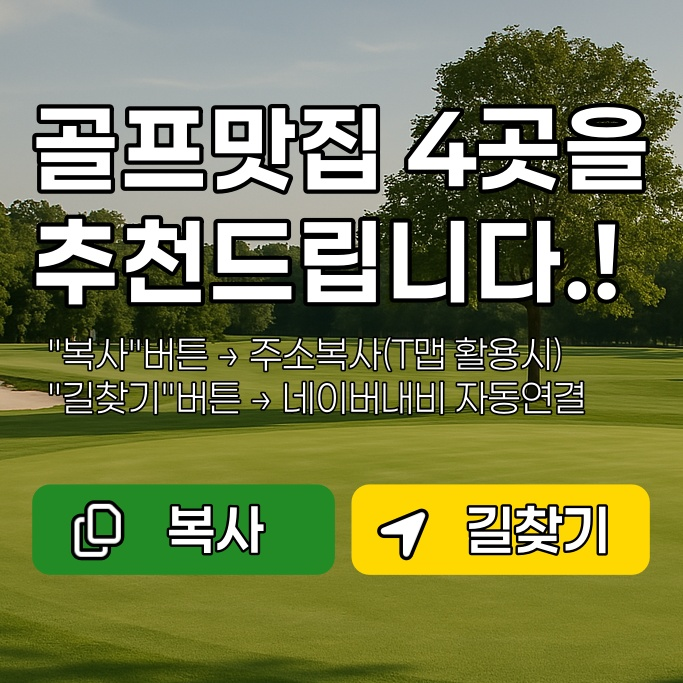
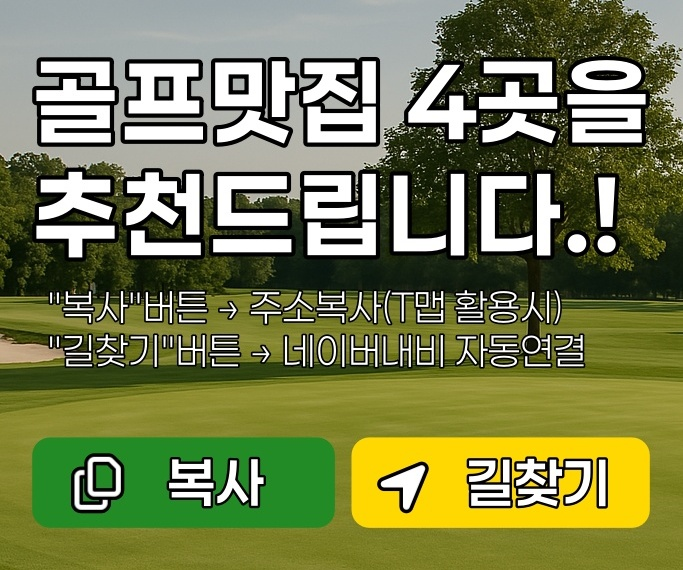
1
1

diff --git a/index.html b/index.html
@@ -17,7 +17,7 @@
             <a href="index.html">
                 <div class="logo-container">
                     <img src="https://blog.kakaocdn.net/dn/urdrA/btsNhMAYXg4/Ua1bAizLATmzmXuNZ1fyd1/img.png" alt="골프 깃발" class="logo-image">
-                    <span class="logo-text">덕분이의 골프맛집</span>
+                    <span class="logo-text">덕분이 골프맛집</span>
                 </div>
             </a>
         </div>
@@ -41,8 +41,8 @@
     <div class="banner-container">
         <a href="https://food.dokbun2.com">
             <picture>
-                <source media="(max-width: 480px)" srcset="https://blog.kakaocdn.net/dn/btKeU6/btsNiZGCESu/cGsGtDqDZHkhthRMdpMaT0/img.jpg">
-                <img src="https://blog.kakaocdn.net/dn/cpBklE/btsNjztU8oI/LVW2RjdAkC228NVbOZK9Z0/img.jpg" alt="골프 맛집 배너">
+                <source media="(max-width: 480px)" srcset="https://blog.kakaocdn.net/dn/bjRzRC/btsNi5GOeru/IEZc0LIvbKkKFRawaCTKCK/img.jpg">
+                <img src="https://blog.kakaocdn.net/dn/bjRzRC/btsNi5GOeru/IEZc0LIvbKkKFRawaCTKCK/img.jpg" alt="골프 맛집 배너">
             </picture>
         </a>
     </div>
@@ -79,7 +79,7 @@
             <h3>골프치기 전, 맛집은 필수!</h3>
           <p>골프는 체력 소모가 큰 스포츠입니다.</p>
           <p>좋은 플레이를 위해서는 적절한 영양 섭취가 필수적이죠!</p>
-          <p>덕분이의 골프맛집에서 골프장 주변의 숨은 맛집들을 찾아보세요.</p> <p> 든든하게 식사 후 필드에서 최고의 퍼포먼스를 발휘하세요!</p>
+          <p>덕분이 골프맛집에서 골프장 인근 맛집을 경험해보세요.</p> <p> 든든하게 식사 후 필드에서 최고의 퍼포먼스를 발휘하세요!</p>
         </div>
     </footer>
     <script src="script.js"></script>

diff --git a/style.css b/style.css
@@ -163,7 +163,7 @@ body {
 }
 
 .logo-text {
-    font-size: 26px;
+    font-size: 32px;
     font-weight: 600;
     letter-spacing: 0.5px;
     color: #1a6e3c;
@@ -195,7 +195,7 @@ body {
 @media (max-width: 480px) {
     .main-banner img {
         max-width: 480px;
-        max-height: 460px;
+        max-height: 420px;
         aspect-ratio: 1/1;
     }
 }
